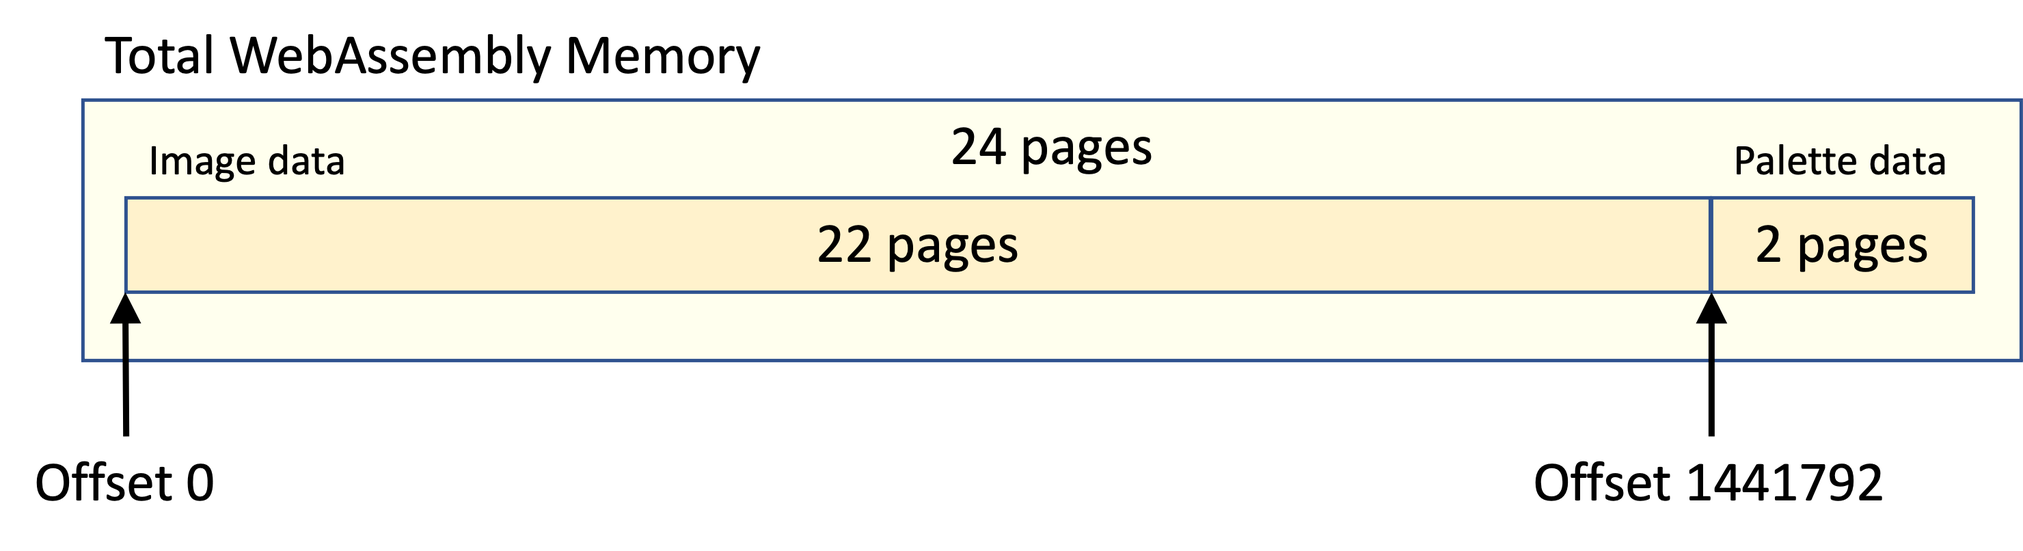
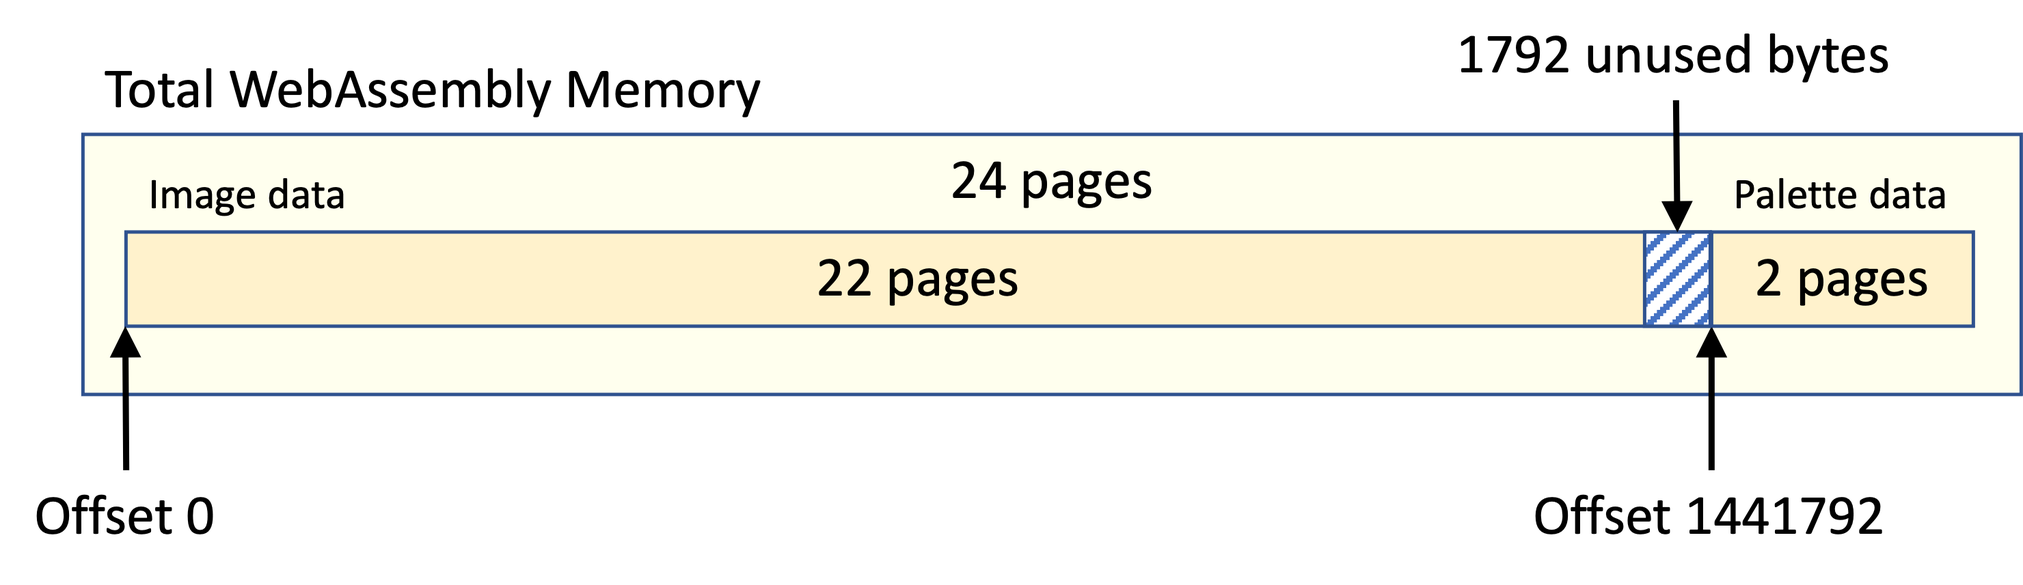
Multiple little corrections and changes

diff --git a/chriswhealy/FractalWASM/03 WAT Basic Implementation/03/README.md b/chriswhealy/FractalWASM/03 WAT Basic Implementation/03/README.md
@@ -5,14 +5,23 @@
 
 ## 3.3: Generate the Colour Palette
 
+Since we are interested in runtime performance, we will precalculate all the possible 4-byte colour values that could be obtained from the range of numbers between `0` and `max_iters`.  This will then be our colour lookup table
+
+### Note on Coding Style
+
+You are free to lay out the source code of a WebAssembly Text program any way you like, but I have found the following conventions to be helpful:
+
+1. Since WebAssembly Text programs can become deeply nested, set the indentation level to 2 spaces.  Anything more than this and your source code will start to become unnecessarily wide
+1. Function signatures have a variety of optional clauses that, if used, must immediately follow the `func` keyword.  SInce the open parentheses plus the word `func` plus a space occupies 6 characters, it is helpful to indent any function signature clauses by 6 characters to provide a visual cue that they belong to the signature, not the function body.
+
 ### Transform an Iteration Value into an RGBA[^1] Colour Value
 The coding that generates the colour palette does not need to be described in detail, suffice it to say that a single iteration value can be translated into the red, green and blue colour components by multiplying it by 4 (implemented as a shift left instruction), then passing it through an algorithm that derives an 8-bit value for each colour component using fixed thresholds.[^2]
 
-All of the coding that follows lives within the `module` defined in `mandel_plot.wat`
+The `$8_bit_clamp` function shown below lives within the `module` definition in file `mandel_plot.wat`
 
 ```wat
 ;; - - - - - - - - - - - - - - - - - - - - - - - - - - - - - - - - - - - - - - - - - - - - - - - - - - - - - - - - - -
-;; Derive a colour component from supplied iteration and threshold values
+;; Derive a single colour component from the iteration and colour threshold values
 (func $8_bit_clamp
       (param $n i32)
       (param $threshold i32)
@@ -41,7 +50,9 @@ All of the coding that follows lives within the `module` defined in `mandel_plot
 )
 ```
 
-With this 8-bit clamp in place, we create three colour functions that use hard-coded colour thresholds:
+With the `$8_bit_clamp` function in place, we can now create three colour functions that supply hard-coded colour thresholds.
+
+Since these functions are very small, their definitions can be compressed into a single line:
 
 ```wat
 ;; - - - - - - - - - - - - - - - - - - - - - - - - - - - - - - - - - - - - - - - - - - - - - - - - - - - - - - - - - -
@@ -66,7 +77,7 @@ Finally, we take each of the colour component values, shift them left by the app
   (local $iter4 i32)
   (local.set $iter4 (i32.shl (local.get $iter) (i32.const 2)))
 
-  ;; Little-endian processor requires the colour component values in ABGR order, not RGBA
+  ;; Little-endian processors require the colour component values in ABGR order, not RGBA
   (i32.or
     (i32.or
       (i32.const 0xFF000000)   ;; Fully opaque
@@ -82,7 +93,7 @@ Finally, we take each of the colour component values, shift them left by the app
 
 ### Generate the Entire Colour Palette
 
-This particular palette generation algorithm produces colours that are distributed evenly across their range; therefore, changes to `max_iters` will not change the overall range of colours.  However, since we need to generate a lookup table that ranges from 0 to `max_iters`, each time `max_iters` changes, we will need to regenerate the entire colour palette.
+This particular palette generation algorithm produces colours that are distributed evenly across their range; therefore, changes to `max_iters` will not change the way the colours are spread over the range.  However, since we need to generate a static lookup table that ranges from 0 to `max_iters`, should `max_iters` ever change,[^3] then we will need to regenerate the entire colour palette.
 
 ```wat
 ;; - - - - - - - - - - - - - - - - - - - - - - - - - - - - - - - - - - - - - - - - - - - - - - - - - - - - - - - - - -
@@ -108,19 +119,19 @@ This particular palette generation algorithm produces colours that are distribut
 )
 ```
 
-There are a couple of things to notice about this function:
+There are several of things to notice about this function:
 
 1. Since this function will only be invoked from the host environment, the internal name has been omitted and only an exported name has been defined.
 1. This function does not return a specific value, it writes to shared memory; therefore, it has no `result` clause.
 1. In [§3.2](../02/), at the start of the module we defined a global constant called `$palette_offset` whose value is imported from the host environment as property `js.palette_offset`.  This value acts as the starting point for calculating where the next `i32` colour value will be written in memory
 1. The loop labeled `$next` continues until our index counter `$idx` exceeds the supplied value of `max_iters`
-1. The `i32.store` instruction writes a 4 byte value to memory.  The first argument is the memory offset and the second is the value being stored.  
-
-   So we call function `$colour`, passing in the value of `$idx`, and store the returned value at the memory location calculated from `$palette_offset + ($idx * 4)`[^3]
+1. The `i32.store` instruction takes the top `i32` value off the stack and writes it to memory.  The first argument is the memory offset and the second is the value being stored.  So we call function `$colour` to transform the value of `$idx` into a colour, then store that value at the memory location calculated from `$palette_offset + ($idx * 4)`[^4]
 3. When this function exits, the block of shared memory starting at the offset defined in `$palette_offset` will contain the colours for all iteration values from 0 to `max_iters`
 
+---
 
 
 [^1]: RGBA stands for the four values needed to fully define a pixel's colour: Red, Green, Blue and Alpha (opacity)
 [^2]: 0 for red, 128 for green, and 356 for blue
-[^3]: The cheapest way to implement multiplication by a power of 2 is to perform an `i32.shl` (shift left) instruction by the relevant number of binary places
+[^3]: This functionality will not be implemented until the very end of this development process
+[^4]: The cheapest way to implement multiplication by a power of 2 is to perform an `i32.shl` (shift left) instruction by the relevant number of binary places

diff --git a/chriswhealy/FractalWASM/03 WAT Basic Implementation/05/README.md b/chriswhealy/FractalWASM/03 WAT Basic Implementation/05/README.md
@@ -7,25 +7,6 @@
 
 Now that we have a bare-bones function to calculate the value of a single pixel, we can simply call this function for every pixel in the image.
 
-When looking through the coding below, the following points are important:
-
-1. The `mandel_plot` function is not called from anywhere inside the WebAssembly module; therefore, it does not need an internal name, only an exported name
-1. This function writes to shared memory; therefore, it has no need for a `result` clause
-1. Since this function works using two different frames of reference (pixels within the image, and coordinates on the complex plane), it needs to know:
-    1.  How to transform an image pixel location to a corresponding coordinate in the complex plane.  Hence we must supply values for arguments `$origin_x` and `$origin_y`.  These arguments identify the X and Y coordinates of the central pixel in the image
-    1. What zoom level is the image being rendered at.  Hence we must supply a value for argument `$ppu` (or pixels per unit).  By default, each unit on the complex plane is subdivided into 200 pixels; hence `$ppu = 200`
-1. The basic structure here follows that already seen in the JavaScript implementation: a pair of nested loops.
-1. Certain optimisations have been implemented in order to avoid recalculating the same value multiple times.  E.G `$half_width`, `$half_height`, `$cx_int` and `$cy_int`
-1. It is very important to remember that the `$x_pos` and `$y_pos` loop counters are integers, but the escape-time algorithm requires coordinate values.  This means two things:
-    1. Each index value must be transformed from a pixel location on the image, to a coordinate in the complex plane
-    1. Coordinates are floating point numbers, not integers.  Therefore, we must employ type-conversion instructions (such as `f64.convert_i32_u`) to convert unsigned 32-bit integers into 64-bit floating points.  
-
-        This also explains why although the function receives argument `$ppu` as an `i32`, before it can be used, that value must be converted and stored as an `f64` local variable.
-1. Just before the call to `$escape_time_mj`, we use the instruction `i32.tee`.  This instruction is useful here because it does two things at once:
-    1. It stores a value in a local variable (in this case `$pixel_val`), and
-    1. It leaves the stored value on the top of the stack, thus saving us from needing to perform a `local.set ...` followed by a `local.get ...`
-
-
 ```wat
 ;; - - - - - - - - - - - - - - - - - - - - - - - - - - - - - - - - - - - - - - - - - - - - - - - - - - - - - - - - - -
 ;; Plot Mandelbrot set
@@ -132,3 +113,20 @@ When looking through the coding below, the following points are important:
 )
 ```
 
+When looking through the coding, the following points are important:
+
+1. The `mandel_plot` function is not called from anywhere inside the WebAssembly module; therefore, it does not need an internal name, only an exported name
+1. This function writes to shared memory; therefore, it has no need for a `result` clause
+1. Since this function works using two different frames of reference (pixels within the image, and coordinates on the complex plane), it needs to know:
+    1.  How to transform an image pixel location to a corresponding coordinate in the complex plane.  Therefore, to link these two frames of reference, we must supply the arguments `$origin_x` and `$origin_y` that identify the X and Y coordinates of the central pixel in the image
+    1. At what zoom level is the image being rendered?  To answer this question, we must supply the argument `$ppu` (or pixels per unit).  To start with, each unit on the complex plane will subdivided into 200 pixels (`$ppu = 200`) since this is small enough to show the entire Mandelbrot set on a canvas that is 800 by 450 in size.
+1. The basic structure of the WAT function follows the structure used in the JavaScript implementation; that is, a pair of nested loops.
+1. Certain optimisations have been implemented in order to avoid calculating the same value multiple times.  Hence the need for intermediate values such as `$half_width`, `$half_height`, `$cx_int` and `$cy_int`
+1. It is very important to remember that the `$x_pos` and `$y_pos` loop counters are integers, but the escape-time algorithm requires coordinate values.  This means two things:
+    1. Each index value must be transformed from a pixel location on the image, to a coordinate in the complex plane
+    1. Coordinates are floating point numbers, not integers.  Therefore, we must employ type-conversion instructions (such as `f64.convert_i32_u`) to convert unsigned 32-bit integers into 64-bit floating points.  
+
+        This also explains why although the function receives argument `$ppu` as an `i32`, before it can be used, that value must first be converted and stored as an `f64` local variable.
+1. Just before the call to `$escape_time_mj`, we use the instruction `i32.tee`.  This instruction is useful here because it does two things at once:
+    1. It stores a value in a local variable (in this case `$pixel_val`), and
+    1. It leaves the stored value on the top of the stack, thus saving us from needing to perform a `local.set ...` followed by a `local.get ...`

diff --git a/chriswhealy/FractalWASM/03 WAT Basic Implementation/01/README.md b/chriswhealy/FractalWASM/03 WAT Basic Implementation/01/README.md
@@ -9,21 +9,23 @@
 
 As we have seen from the JavaScript implementation, the image displayed on the HTML `canvas` is stored in an `ArrayBuffer`.  This fact remains true irrespective of whether the fractal image has been calculated by a JavaScript program or a WebAssembly program.
 
-We know that our `canvas` image is 800 by 450 pixels in size and that each pixel requires 4 bytes (one for each of the Red, Green and Blue values and one byte for the opacity, or alpha channel); so we will require about one and a half megabytes to store the image:
+We know that our `canvas` image is 800 by 450 pixels in size and that each pixel requires 4 bytes (one for each of the Red, Green and Blue values and one byte for the opacity, or alpha channel):
 
 ```javascript
 800 * 450 * 4 bytes per pixel = 1,440,000 bytes
 ```
 
-However, we also know that WebAssembly memory can only be allocated in 64Kb pages
+So we will require about one and a half megabytes to store the image.  However, we also know that WebAssembly memory can only be allocated in 64Kb pages.  Therefore, we need to calculate how many whole memory pages to allocate:
 
 ```javascript
 Math.ceil(1440000 / 65536) = 22 pages
 ```
 
-Therefore, we will need 22, 64Kb memory pages
+So, 22 memory pages of 64Kb each will be needed to store the image.
 
-In addition to memory needed for the image, we need to allocate some memory for the colour palette information.[^1]  This is simply a precalculated lookup table to translate an iteration value into a colour.  Assuming we limit the maximum number of iterations to 32,768 and each colour requires 4 bytes, then we will need to allocate a further 2 pages of WebAssembly memory:
+In addition to memory needed for the image, we also need to allocate some memory for the colour palette information.[^1]
+
+The colour palette is simply a precalculated lookup table that allows us to translate an iteration value into a colour.  Assuming we limit the maximum number of iterations to 32,768 and each colour requires 4 bytes, then we will need to allocate a further 2 pages of WebAssembly memory:
 
 ```javascript
 (32768 * 4) / 65536 = 2 pages
@@ -60,7 +62,7 @@ In this case, we do not need to allocate a specific `ArrayBuffer` object, becaus
 
 ### Decide How Shared Memory Should be Used
 
-Now that we have a block of linear memory large enough to hold both the image and the colour palette, we must decide how this block of memory is to be subdivided.  And here, we are free to follow any scheme we like &mdash; we just have to keep track of what lives where, and be careful to ensure we don't start trampling on our own data!
+Now that we have a block of linear memory large enough to hold both the image and the colour palette, we must decide how this block of memory is to be subdivided.  And here, we are free to follow any scheme we like &mdash; we just have to keep track of what data structures live where and be very careful not to trample on our own data!
 
 In our case, the simplest way to do this is to say that the image data will start at offset 0 and the colour palette data will start at the full page boundary after the image data.  This does means that there will be a few bytes of wasted space, but this is not a particularly critical issue.
 
@@ -95,15 +97,17 @@ const host_fns = {
 }
 ```
 
-Now, assuming that our WebAssembly module lives in the same directory as the HTML file running this JavaScript code, and that it is called `mandel_plot.wasm`, then the code to instantiate this module would look like this:
+Now, assuming that our (as yet, unwritten) WebAssembly module lives in the same directory as the HTML file running this JavaScript code, and that it is called `mandel_plot.wasm`, then the code to instantiate this module would look like this:
 
 ```javascript
 const wasmObj = await WebAssembly.instantiateStreaming(
-  fetch('./mandel_plot.wasm'),
-  host_fns
+  fetch('./mandel_plot.wasm'), // Asynchronously fetch the .wasm file
+  host_fns                     // Host environment resources being shared with this module instance
 )
 ```
 
 Notice that instantiating a WebAssembly module requires the use of `await`; therefore, this call must be located within an asynchronous function.
+
+---
 
 [^1]: It is possible to avoid the need for storing colour palette information by dynamically calculating the colour value each time a pixel iteration value is calculated; however, this is not a very efficient approach because each iteration value translates to a static colour value.  Therefore, it is much more efficient to precalculate all the colour values from 1 to `max_iters` and store them in a lookup table.

diff --git a/chriswhealy/FractalWASM/03 WAT Basic Implementation/04/README.md b/chriswhealy/FractalWASM/03 WAT Basic Implementation/04/README.md
@@ -13,13 +13,15 @@ Since this particular algorithm can be used for plotting either the Mandelbrot o
 |---|---|---
 | `$zx` | Real part of Iterated value | For the Mandelbrot Set, `z` always starts at 0
 | `$zy` | Imaginary part of iterated value | For the Mandelbrot Set, `z` always starts at 0
-| `$cx` | Pixel X coordinate | Caller must transform pixel location to a coordinate
-| `$cy` | Pixel Y coordinate | Caller must transform pixel location to a coordinate
+| `$cx` | Pixel X coordinate (real part) | Caller must transform pixel location to a coordinate
+| `$cy` | Pixel Y coordinate (imaginary part) | Caller must transform pixel location to a coordinate
 | `$max_iters` | Iteration limit |
 
 If you have read [§8](Introduction%20to%20WebAssembly%20Text/08/) on Loops from the blog series [Introduction to WebAssembly Text](Introduction%20to%20WebAssembly%20Text/), then you will remember that the idiomatic way to write a loop in WebAssembly Text is to assume that the loop will finish then test for continuation, rather than assuming the loop will repeat, then testing for termination.
 
 This coding style is used here.
+
+This function takes two complex numbers `z` and `c` and repeatedly squares `z` and adds `c` until one of the continuation conditions become false.  However, since WebAssembly has no complex number datatype, the real and imaginary parts of the complex arguments `z` and `c` are supplied as two pairs of `f64`s: `zx` and `zy`, and `cx` and `cy`.
 
 ```wat
 ;; - - - - - - - - - - - - - - - - - - - - - - - - - - - - - - - - - - - - - - - - - - - - - - - - - - - - - - - - - -
@@ -44,17 +46,15 @@ This coding style is used here.
 
     ;; Only continue the loop if we're still within both the bailout value and the iteration limit
     (if
+      ;; ($BAILOUT > ($zx_sqr + $zy_sqr)) AND ($max_iters > iters)?
       (i32.and
-        ;; $BAILOUT > ($zx_sqr + $zy_sqr)?
         (f64.gt (global.get $BAILOUT) (f64.add (local.get $zx_sqr) (local.get $zy_sqr)))
-        
-        ;; $max_iters > iters?
         (i32.gt_u (local.get $max_iters) (local.get $iters))
       )
       (then
         ;; $zy = $cy + (2 * $zy * $zx)
-        (local.set $zy (f64.add (local.get $cy) (f64.mul (local.get $zy) (f64.add (local.get $zx) (local.get $zx)))))
         ;; $zx = $cx + ($zx_sqr - $zy_sqr)
+        (local.set $zy (f64.add (local.get $cy) (f64.mul (local.get $zy) (f64.add (local.get $zx) (local.get $zx)))))
         (local.set $zx (f64.add (local.get $cx) (f64.sub (local.get $zx_sqr) (local.get $zy_sqr))))
         
         (local.set $iters (i32.add (local.get $iters) (i32.const 1)))
@@ -67,8 +67,6 @@ This coding style is used here.
   (local.get $iters)
 )
 ```
-
-This function takes two complex numbers `z` and `c` and repeatedly squares `z` and adds `c` until one of the continuation conditions become false.  However, since WebAssembly has no complex number datatype, the real and imaginary parts or complex arguments `z` and `c` are supplied as two pairs of `f64`s: `zx` and `zy`, and `cx` and `cy`.
 
 Certain optimisations have been added to avoid the need for either expensive function calls or repetitive calculations.
 

diff --git a/chriswhealy/FractalWASM/02 Initial Implementation/02/README.md b/chriswhealy/FractalWASM/02 Initial Implementation/02/README.md
@@ -9,11 +9,11 @@ As previously implemented, the `escapeTime` function uses a brute-force approach
 
 ![Mandelbrot Regions](Mandelbrot%20Regions.png)
 
-If it does, then we already know that this value will escape to infinity and can therefore immediately colour it black.
+Any point lying within these two regions is a member of the Mandelbrot Set which means that its value will never escape to infinity.  The problem is that using our current approach, for every pixel within these regions, we will have to run the escape-time algorithm until it hits the `max_iters` limit simply to determine something we could discover using a significantly smaller amount of CPU time.
 
 All we need to do now is add a check that takes the (`x`,`y`) coordinates of the pixel location, and checks whether it lies within either of these two regions.
 
-The exact implementation of these functions is not important at the moment:
+The exact implementation of these functions is not important at the moment; we will simply assume that such function are available and that calling them is much cheaper than running the escape-time algorithm to completion:
 
 ```javascript
 const isInMainCardioid   = (x, y) => ...
@@ -21,7 +21,9 @@ const isInPeriod2Bulb    = (x, y) => ...
 const mandelEarlyBailout = (x, y) => isInMainCardioid(x,y) || isInPeriod2Bulb(x,y)
 ```
 
-One other important point to note is that these function must be passed the (`x`,`y`) ***coordinate*** value of the pixel, not its pixel ***location*** in the canvas.  This means that for the sake of efficiency, we need to convert the pixel location values stored in the loop counters `ix` and `iy` into the coordinates before passing them either to the early bail out check, or the escape time algorithm itself.  Hence the calls to `pixel2XCoord` and `pixel2YCoord` have been moved out of function `escapeTime()`
+One other important point to note is that these functions must be passed the (`x`,`y`) ***coordinate*** value of the pixel, not its pixel ***location*** in the canvas.  This means that for the sake of efficiency, we need to convert the pixel location values stored in the loop counters `ix` and `iy` into coordinates of the complex plane before passing them either to the early bail out check, or the escape time algorithm itself.  
+
+Hence the calls to `pixel2XCoord` and `pixel2YCoord` have been moved out of function `escapeTime()`
 
 Now, our more efficient loop looks like this:
 
@@ -53,4 +55,4 @@ for (let iy = 0; iy < mCanvas.height; ++iy) {
 
 You can examine and run the coding of this [optimized implementation](optimised-implementation.html)
 
-As you can see from the rendering time, this simple check makes the algorithm between 5 and 6 times faster.
+As you can see from the rendering time, adding this simple check makes the plot time between 5 and 6 times faster!

diff --git a/chriswhealy/FractalWASM/05 MB Julia Set/01/README.md b/chriswhealy/FractalWASM/05 MB Julia Set/01/README.md
@@ -10,6 +10,7 @@
 The following HTML `canvas` and `div` elements have been added
    
 ```html
+<canvas id="juliaImage" style="border: 1px solid black"></canvas>
 <div>Julia Set corresponding to
   (<span id="x_complex_coord"></span>,<span id="y_complex_coord"></span>)
   on the Mandelbrot Set rendered in <span id="julia_runtime"></span>ms
@@ -41,9 +42,9 @@ const wasmMemory = new WebAssembly.Memory({
 })
 ```
 
-Previously, we supplied the memory offset as a static value in the `host_fns` object.  WebAssembly then picks up this object at the time the module is instantiated.  However, since the same WebAssembly function is now going to plot both the Mandelbrot and Julia Sets, we will need to supply two offsets.
+Previously, we supplied the memory offset as a static value in the `host_fns` object.  WebAssembly then picks up this object at the time the module is instantiated.  However, since the same WebAssembly function is now going to plot both the Mandelbrot and Julia Sets, we will need to supply an offset for each image.[^1]
 
-Rather than supplying two memory offset values as static fields in the `host_fns` object, it is easier to pass the relevant memory offset as a runtime argument.  So now the `js` namespace of the `host_fns` object only needs two properties:
+Rather than supplying two memory offsets as static fields in the `host_fns` object, it is easier to pass the relevant offset as a runtime argument.  So now the `js` namespace of the `host_fns` object only needs two properties:
 
 ```javascript
 const host_fns = {
@@ -145,3 +146,7 @@ const start = async () => {
 
 start()
 ```
+
+---
+
+[^1]: Pay attention here!  This a good example of where, within its own memory space, a WebAssembly program only has the memory safety you give it.  If you're not careful, you can end up writing code that tramples over top of other data structures in your own memory.

diff --git a/chriswhealy/FractalWASM/04 WAT Optimised Implementation/README.md b/chriswhealy/FractalWASM/04 WAT Optimised Implementation/README.md
@@ -6,13 +6,9 @@
 
 Now that we have a working implementation, let's add an optimisation that will greatly improve performance.
 
-As it mentioned in [§2.2](../02%20Initial%20Implementation/02/), there are certain locations on the Mandelbrot Set where we know that the escape-time algorithm will never escape to infinity.  Unfortunately, our simplistic escape-time algorithm cannot know this until it has repeated the loop `max_iters` time.  This is a big waste of time, since we already know that this particular pixel will be black.
+As it mentioned in [§2.2](../02%20Initial%20Implementation/02/), there are certain locations on the Mandelbrot Set where we know that the escape-time algorithm will never escape to infinity.  Unfortunately, our simplistic escape-time algorithm cannot know this until it has repeated the loop `max_iters` times.  This is a big waste of time, since we already know that this particular pixel will be black.
 
-Therefore, to improve performance, we will first test whether the current pixel falls within one of these areas.  If it does, we can bail out early.
-
-To achieve this, we need to do the following:
+Therefore, to improve performance, we will first test whether the current pixel falls within one of these areas.  If it does, we can bail out early.  To achieve this, we need to do the following:
 
 1. [Check for Early Bailout](./01/)
 1. [Modify Render Loop](./02/)
-
-Here's an implementation of the [optimised WAT coding](wat-optimised-implementation.html)

diff --git a/chriswhealy/FractalWASM/05 MB Julia Set/README.md b/chriswhealy/FractalWASM/05 MB Julia Set/README.md
@@ -4,13 +4,13 @@
 
 ## 5: Plotting a Julia Set
 
-Now that we have an efficient means of plotting the Mandelbrot Set, we can now add an additional HTML `canvas` element to the Web page to display a Julia Set.
+Now that we have an efficient means of plotting the Mandelbrot Set, we can now add a second HTML `canvas` element to the Web page to display a Julia Set.
 
-For every point on the Mandelbrot Set, there is a corresponding Julia Set.  So as the mouse pointer moves over the Mandelbrot Set, a completely new Julia Set needs to be rendered.  Consequently, every time a `mousemove` event goes off over the `canvas`, our now dual-purpose escape-time algorithm will be invoked.
+For every point on the Mandelbrot Set, there is a corresponding Julia Set.  So as the mouse pointer moves over the Mandelbrot Set, a completely new Julia Set needs to be rendered.  Consequently, every time a `mousemove` event goes off over the `canvas`, our now dual-purpose plot function will be called.
 
-This is where we will start to see the benefits of writing in WebAssembly Text, because we can focus on low-level efficiency.
+This is where we start to see the benefits of writing in WebAssembly Text.  Since we can focus on low-level efficiency, we can produce a very small, very fast program.
 
-We need to make two sets of changes:
+To plot the additional Julia Sets, we need to make two sets of changes:
 
 1. [Web Page Changes](./01/)
 1. [WebAssembly Changes](./02/)

diff --git a/chriswhealy/FractalWASM/03 WAT Basic Implementation/02/README.md b/chriswhealy/FractalWASM/03 WAT Basic Implementation/02/README.md
@@ -25,4 +25,10 @@ Having created a file called `mandel_plot.wat`, start by defining the module and
 
 Notice how the two-layer namespace is used to identify each property in the JavaScript object we created called `host_fns`.
 
-> We have kept the WebAssembly global names the same as the JavaScript property names, so `$image_offset` has the same name as the `host_fns` property `js.image_offset` from which its value has been obtained; however, this has only been done for the sake of simplicity.  It is not a requirement.
+> ***IMPORTANT***
+>
+> Currently, there is a limitation that the number of memory pages referenced in the `(memory ...)` clause must be hard-coded to match number of memory pages allocated in the host environment.  This value cannot be picked from a variable reference.
+
+For the sake of simplicity, we have kept the WebAssembly global names the same as the JavaScript property names.  So the WebAssembly global value `$image_offset` has the same name as the `host_fns` property `js.image_offset` from which its value has been obtained.
+
+Should you wish to, the global names used within the WebAssembly module can be different from the property names supplied by the host environment.  However, consider whether having different internal and external names will help or hinder the clarity of your code...

diff --git a/chriswhealy/FractalWASM/03 WAT Basic Implementation/06/README.md b/chriswhealy/FractalWASM/03 WAT Basic Implementation/06/README.md
@@ -12,7 +12,7 @@ Now that the WebAssembly side of the coding has been written, we need an HTML pa
 
 ![Basic WAT Implementation](basic-rendered-mbset.png)
 
-In the above image, notice that without any optimisations, our basic implementation is pretty slow...
+In the above image, notice that without any optimisation, our basic implementation takes several hundred milliseconds to complete &mdash; which is pretty slow...
 
 [Basic WAT Implementation.html](../wat-basic-implementation.html)
 
@@ -110,6 +110,6 @@ The JavaScript coding in this Web page does the following things:
 1. Within an asynchronous function called `start`:
     1. Instantiate the WebAssembly module
     1. Call the WebAssembly function to generate the colour palette
-    1. Making a note of the start and end times, call the WebAssembly function to generate the Mandelbrot set and display the execution time
+    1. Making a note of the start, call the WebAssembly function to generate the Mandelbrot set, then display the execution time
     1. Display the rendered image by transferring the relevant slice of shared memory to the HTML `canvas` element
 1. Calls the asynchronous `start()` function

diff --git a/chriswhealy/FractalWASM/03 WAT Basic Implementation/README.md b/chriswhealy/FractalWASM/03 WAT Basic Implementation/README.md
@@ -4,9 +4,9 @@
 
 # 3: Basic WAT Implementation
 
-Starting from a Web page written in HTML and JavaScript, we want to display an image of the Mandelbrot set; however, the CPU-intensive task of calculating the fractal image will not be implemented in JavaScript, but rather delegated to a WebAssembly program that we will now write.
+The Web page used to implement the JavaScript version of the Mandelbrot Set is a good starting point from which to invoke the WebAssembly version of this program.
 
-The image information created by WebAssembly is made available to JavaScript by means of shared memory.
+The only difference now is that the CPU-intensive task of calculating the fractal image will be implemented in a hand-crafted WebAssembly program.  The image data created by the WebAssembly program is then made available to JavaScript by means of shared memory.
 
 1. [Shared Memory](./01/)
 1. [Create the WebAssembly Module](./02/)

diff --git a/chriswhealy/FractalWASM/01 Plotting Fractals/README.md b/chriswhealy/FractalWASM/01 Plotting Fractals/README.md
@@ -21,7 +21,7 @@ This greatly improves runtime efficiency, and will also be demonstrated here.
 The [Mandelbrot Set](https://en.wikipedia.org/wiki/Mandelbrot_set) is created as follows:
 
 1. First, decide on two arbitrary limits:
-   * What is the maximum number of times we will iterate the calculation before giving up? This value is referred to as `max_iters` and a reasonable starting value is `150`
+   * What is the maximum number of times we will iterate the calculation before giving up? This value is referred to as `max_iters` and a reasonable starting value is `1000`
    * Each time we iterate the calculation, we get out a number that might well start to grow.  How big should we allow this number to become before stopping (since it's only going to continue growing).  This limit is called `bailout` and is typically set to `4`
 1. Using this equation:
 
